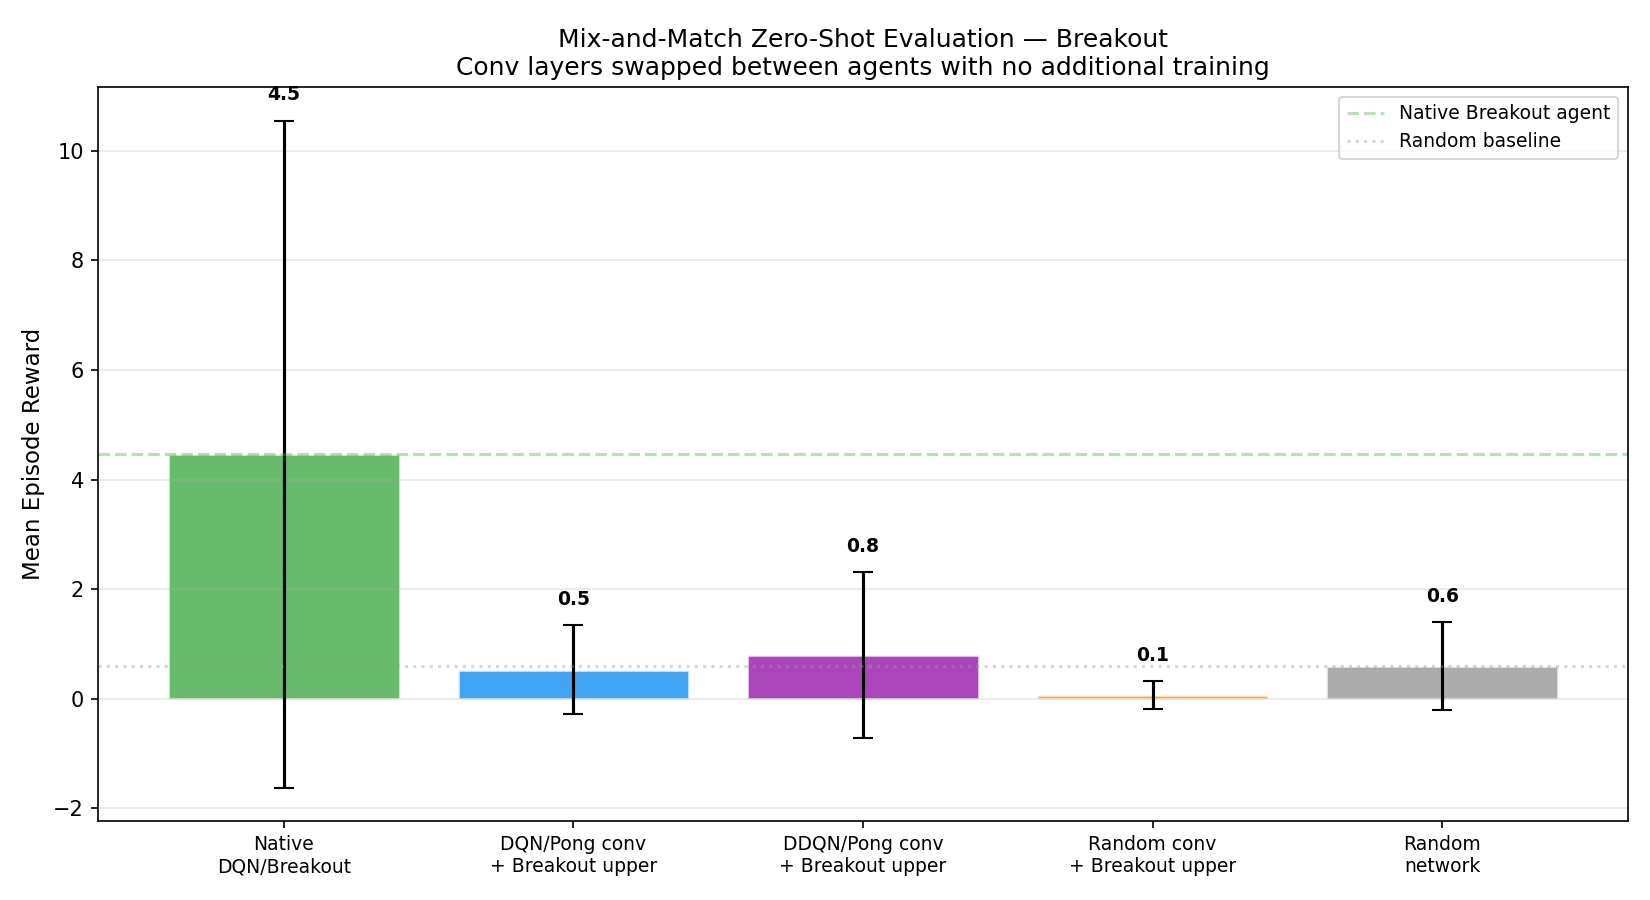
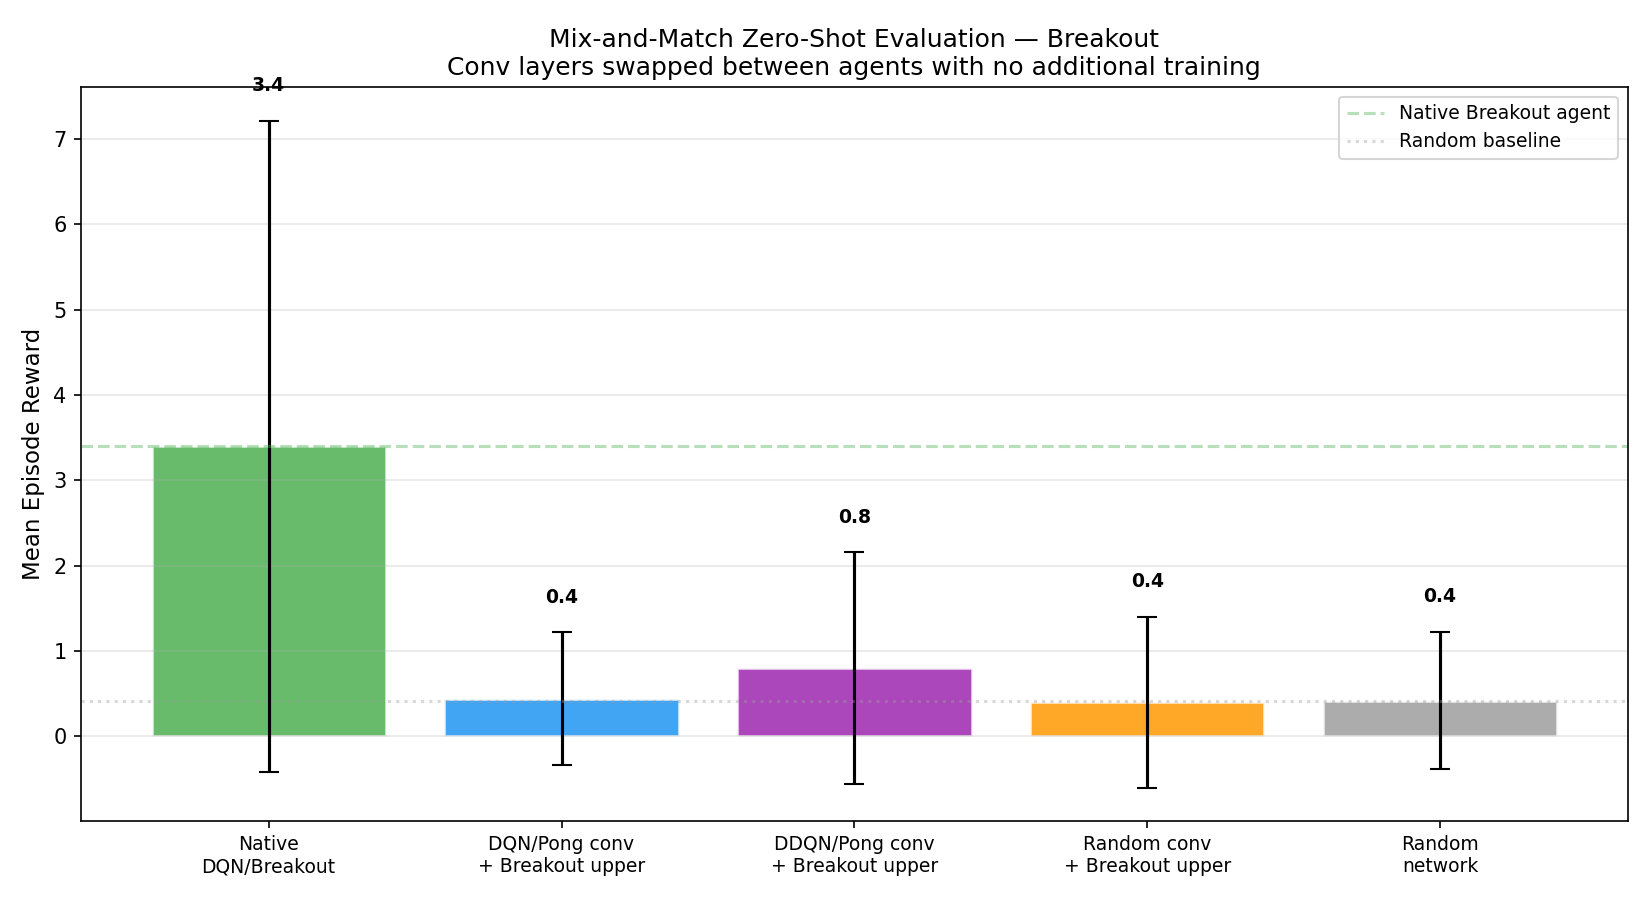
Update report v2 with mix-and-match and backbone transfer results
- New experimental design subsections: zero-shot mix-and-match and backbone training
- New results section: zero-shot eval (Pong conv ≈ random on Breakout), backbone curves
- Key finding: frozen conv underperforms scratch (2.28 vs 3.86); full fine-tune peaks highest (4.47)
- Updated transfer learning discussion with actual results
- Updated conclusion with transfer finding

diff --git a/latex/main-v2.tex b/latex/main-v2.tex
@@ -195,6 +195,14 @@ After training, each checkpoint is loaded and the agent runs in near-greedy mode
 
 To localise where cross-game representational similarity breaks down within the network, forward hooks are registered at four depths: the output of each of the three convolutional layers (conv1, conv2, conv3) and the 512-dimensional fully connected representation layer (fc\_repr). For a fixed set of game states, activation matrices are collected at each depth for DQN/Pong and DQN/Breakout, and pairwise CKA is computed between the two agents. The same analysis is repeated for DDQN/Pong and DDQN/Breakout. This produces a depth profile of cross-game similarity, revealing at which layer the shared visual structure gives way to game-specific strategic encoding.
 
+\subsection{Cross-Game Layer Transfer}
+
+To directly test whether the representational similarity identified by CKA translates into functional transferability, two complementary experiments are conducted.
+
+\textbf{Zero-shot mix-and-match.} Chimera networks are constructed by transplanting convolutional layers from one game's trained agent into another game's trained agent, with no additional training. The key architectural property that makes this possible is that the convolutional layers are independent of the action space; only the output head depends on the number of actions. Ten conditions are evaluated (five per game), spanning a spectrum from native agents (upper bound) through cross-game and cross-algorithm chimeras to fully random networks (lower bound). Each condition is evaluated over 50 episodes.
+
+\textbf{Backbone training.} A DQN agent is initialised from the converged DQN/Pong checkpoint and trained on Breakout for 5M steps under two freezing conditions: (1) \textit{frozen conv} -- convolutional layers locked, only fc\_repr and fc\_out train; (2) \textit{full fine-tune} -- all layers initialised from Pong but allowed to train freely on Breakout. Both are compared against the scratch DQN/Breakout baseline trained from random initialisation.
+
 % ============================================================
 \section{Results}
 \label{sec:results}
@@ -394,6 +402,61 @@ The pattern is consistent across both algorithms: CKA remains high at conv1 and 
 
 This layer-wise profile also has practical implications. Because early conv layers are functionally similar across games, they are strong candidates for freezing during cross-game transfer or fine-tuning. The fc\_repr layer, by contrast, carries predominantly game-specific information and would need to adapt substantially in any cross-game transfer setting.
 
+\subsection{Cross-Game Layer Transfer}
+
+\subsubsection{Zero-Shot Mix-and-Match}
+
+Figure~\ref{fig:mixmatch} shows the zero-shot performance of chimera networks evaluated on each game. The results are unambiguous: transplanting convolutional layers from one game's agent into another's yields performance indistinguishable from random.
+
+\begin{figure}[H]
+    \centering
+    \begin{subfigure}[b]{0.48\linewidth}
+        \includegraphics[width=\linewidth]{figures/mix_and_match_breakout.png}
+        \caption{Evaluated on Breakout.}
+    \end{subfigure}
+    \hfill
+    \begin{subfigure}[b]{0.48\linewidth}
+        \includegraphics[width=\linewidth]{figures/mix_and_match_pong.png}
+        \caption{Evaluated on Pong.}
+    \end{subfigure}
+    \caption{Zero-shot mix-and-match evaluation. Transplanting conv layers from one game to another produces performance equivalent to random initialisation, despite CKA showing high similarity at those layers.}
+    \label{fig:mixmatch}
+\end{figure}
+
+On Breakout, DQN/Pong conv transplanted into a DQN/Breakout agent achieves a mean reward of $0.44 \pm 0.78$, compared to $0.40 \pm 1.00$ for random conv and $0.42 \pm 0.80$ for a fully random network. The native DQN/Breakout agent scores $3.40 \pm 3.82$. On Pong, the result is more extreme: any foreign conv layer -- whether from Breakout, a different algorithm, or random -- produces the worst possible score of $-21$, identical to a fully random agent.
+
+This result reveals a critical distinction between \textit{representational similarity} and \textit{functional compatibility}. CKA shows that conv1 and conv2 learn similar feature detectors across games, but the fc\_repr layer was trained to interpret the specific activation patterns produced by its own conv stack. Foreign conv activations, even if geometrically similar, fall outside the distribution that fc\_repr was trained on, causing it to produce meaningless Q-value estimates. The conv-to-fc interface is too tightly coupled for zero-shot transplantation.
+
+\subsubsection{Backbone Training}
+
+Figure~\ref{fig:backbone} shows learning curves for all three conditions over 5M training steps on Breakout.
+
+\begin{figure}[H]
+    \centering
+    \includegraphics[width=0.85\linewidth]{figures/backbone_comparison_reward.png}
+    \caption{Breakout learning curves: scratch DQN vs frozen Pong conv backbone vs full fine-tune from Pong. 500-episode rolling average.}
+    \label{fig:backbone}
+\end{figure}
+
+\begin{table}[H]
+\centering
+\caption{Backbone training results on Breakout after 5M steps.}
+\label{tab:backbone}
+\begin{tabular}{lcc}
+\toprule
+\textbf{Condition} & \textbf{Final Reward} & \textbf{Best Smoothed Reward} \\
+\midrule
+Scratch DQN/Breakout      & 3.86 & 4.07 \\
+Frozen conv (Pong)        & 2.28 & 3.03 \\
+Full fine-tune from Pong  & 3.12 & 4.47 \\
+\bottomrule
+\end{tabular}
+\end{table}
+
+The frozen conv condition performs \textit{worse} than scratch throughout training, despite CKA indicating that Pong's conv layers are geometrically similar to those Breakout would develop independently. This appears contradictory, but is consistent with the zero-shot result: similarity of features does not imply interchangeability. Pong's conv layers are tuned to extract features that are reward-predictive in Pong's visual context -- opponent paddle trajectories, ball approach angles -- which differ subtly from the features most useful for Breakout. Freezing them prevents the network from adapting to the new game's specific visual demands.
+
+The full fine-tune condition achieves the highest peak smoothed reward (4.47 versus 4.07 for scratch), suggesting that initialising from a trained Pong network provides a useful starting point when all layers are free to adapt. The Pong initialisation contributes a prior over useful low-level visual features that accelerates early learning, visible as faster initial reward growth before the curves converge.
+
 % ============================================================
 \section{Discussion}
 \label{sec:analysis}
@@ -417,9 +480,13 @@ Critically, these representational differences emerge even though DQN and DDQN a
 
 \subsection{Implications for Transfer Learning}
 
-The CKA depth profile identified here has direct implications for cross-game transfer. Because conv1 and conv2 maintain high cross-game CKA similarity, they represent the most transferable components of the network: features learned on one game would remain relevant when applied to the other. Freezing these layers during cross-game fine-tuning would preserve their generalisation while allowing the deeper layers to specialise to the new game's strategic demands.
+The transfer experiments reveal a nuanced picture that goes beyond the CKA similarity profile alone. High CKA at early conv layers is a necessary but not sufficient condition for functional transfer. The zero-shot results show that even geometrically similar conv layers cannot be transplanted without retraining, because the downstream fc\_repr layer has co-adapted to its own conv stack's specific activation patterns.
 
-The fc\_repr layer, by contrast, shows substantial game-specific encoding. An agent pre-trained on Pong and fine-tuned on Breakout would need to substantially reorganise its representation layer, since the strategic demands differ, while its early convolutional features would carry over relatively well. The stronger cross-game CKA similarity under DDQN at deeper layers suggests DDQN retains marginally more transferable content at depth, which may give it a small advantage in fine-tuning settings.
+The frozen backbone result makes this concrete: locking Pong's conv layers actually \textit{hurts} Breakout learning relative to scratch, despite CKA indicating those layers are similar to what Breakout would develop independently. The frozen layers constrain the network to extract features tuned for Pong's visual context, which are close but not optimal for Breakout.
+
+The full fine-tune result is more positive: initialising all layers from Pong and allowing free adaptation achieves the highest peak performance (4.47 smoothed reward versus 4.07 for scratch). The Pong initialisation acts as a warm start -- it provides a useful prior over low-level visual features that accelerates early learning, even though the representation layer ultimately needs to reorganise substantially.
+
+Together, these results suggest a practical guideline for cross-game transfer: initialise from a related game but do not freeze layers, as the coupling between conv and fc layers is too tight to support partial freezing across games. The value of pre-training lies in the initialisation, not in preserving specific feature detectors.
 
 \subsection{Limitations}
 
@@ -447,9 +514,10 @@ This study has provided a controlled analysis of how structurally similar yet st
     \item \textbf{DDQN produces more structured representations within each game.} Tighter t-SNE cluster geometry, fewer dead neurons, more focused saliency, and higher cross-game cosine similarity all point to DDQN's cleaner gradient signal producing more organised internal models.
     \item \textbf{DQN overestimates Q-values systematically.} Mean max Q-values are substantially higher under DQN than DDQN, replicating the bias of van Hasselt et al.\ \cite{van2016deep} under reduced-buffer conditions.
     \item \textbf{Performance and representation quality are decoupled.} Both algorithms achieve near-identical task performance, confirming that reward alone is an insufficient indicator of whether an agent has built a clean internal model.
+    \item \textbf{Representational similarity does not imply functional transferability.} Zero-shot layer transplantation fails completely despite high CKA at early conv layers, because the conv-to-fc interface is tightly co-adapted during training. Frozen conv backbones underperform scratch training; only full fine-tune from a Pong initialisation provides a benefit, achieving a higher peak reward by using the pre-trained weights as a warm start rather than a fixed feature extractor.
 \end{enumerate}
 
-The central finding is that the line between shared and game-specific representations in deep RL agents corresponds closely to the line between shared visual features and distinct strategic demands, and that this line can be localised to specific layers using CKA. The early convolutional layers generalise; the representation layer specialises. This has direct implications for transfer learning and motivates further study of cross-game transfer, layer freezing, and representation geometry across a broader range of game types and training algorithms.
+The central finding is that the line between shared and game-specific representations in deep RL agents corresponds closely to the line between shared visual features and distinct strategic demands, and that this line can be localised to specific layers using CKA. The early convolutional layers generalise; the representation layer specialises. The transfer experiments further show that this similarity is geometrical rather than functional: similar features cannot be directly reused without retraining. These findings motivate further study of how pre-training can be leveraged across structurally similar tasks, and how the coupling between network layers shapes the limits of cross-task transfer.
 
 % ============================================================
 \newpage
